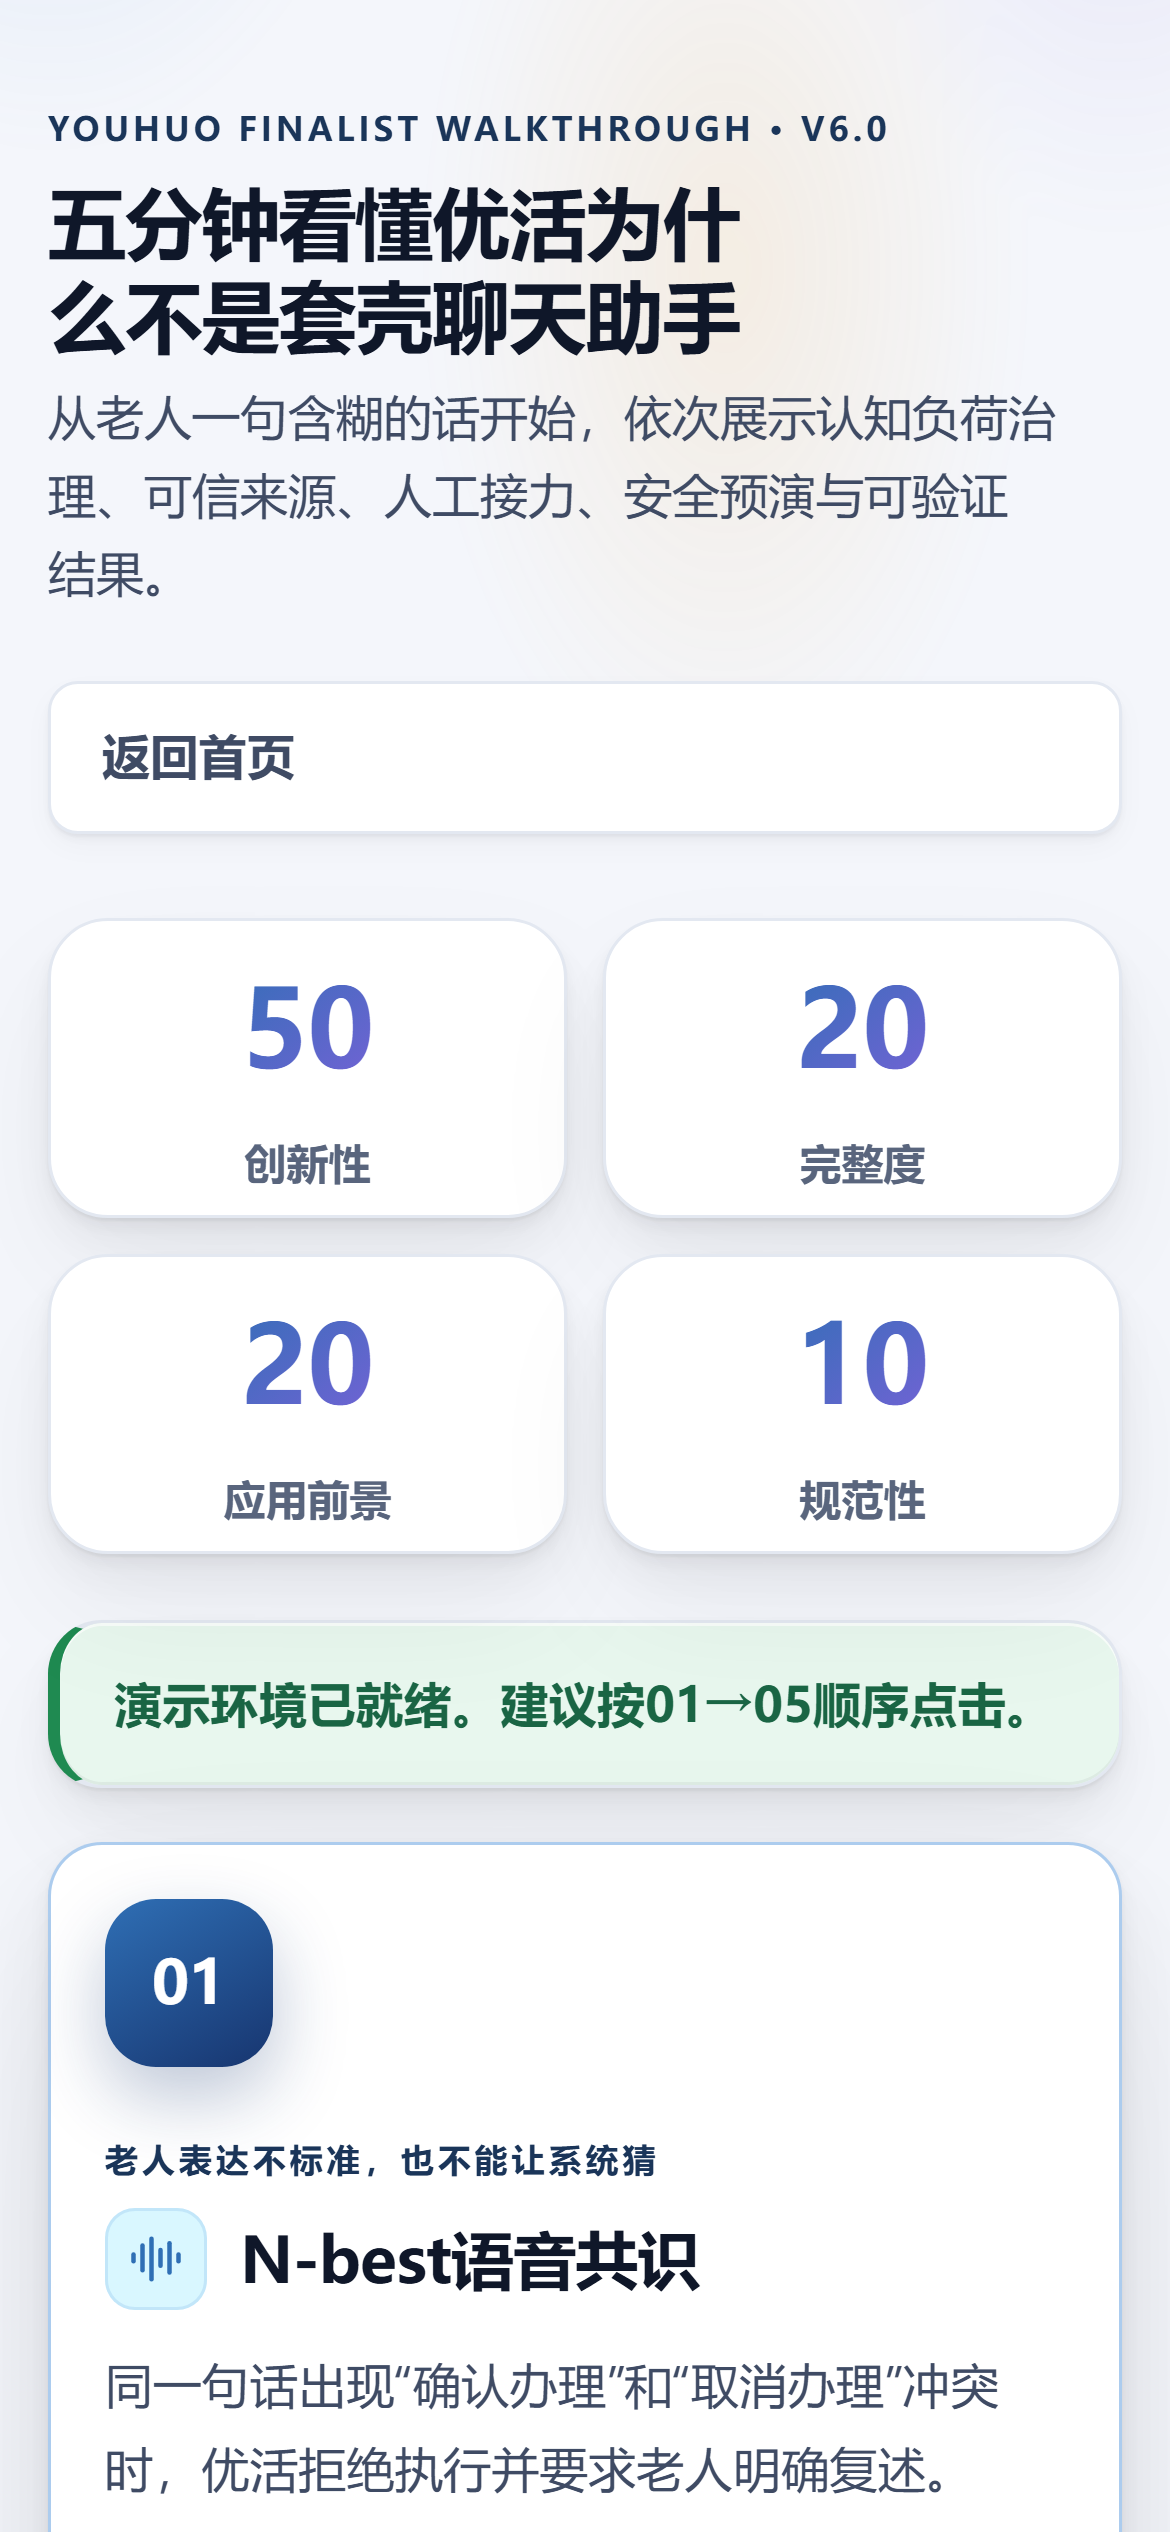
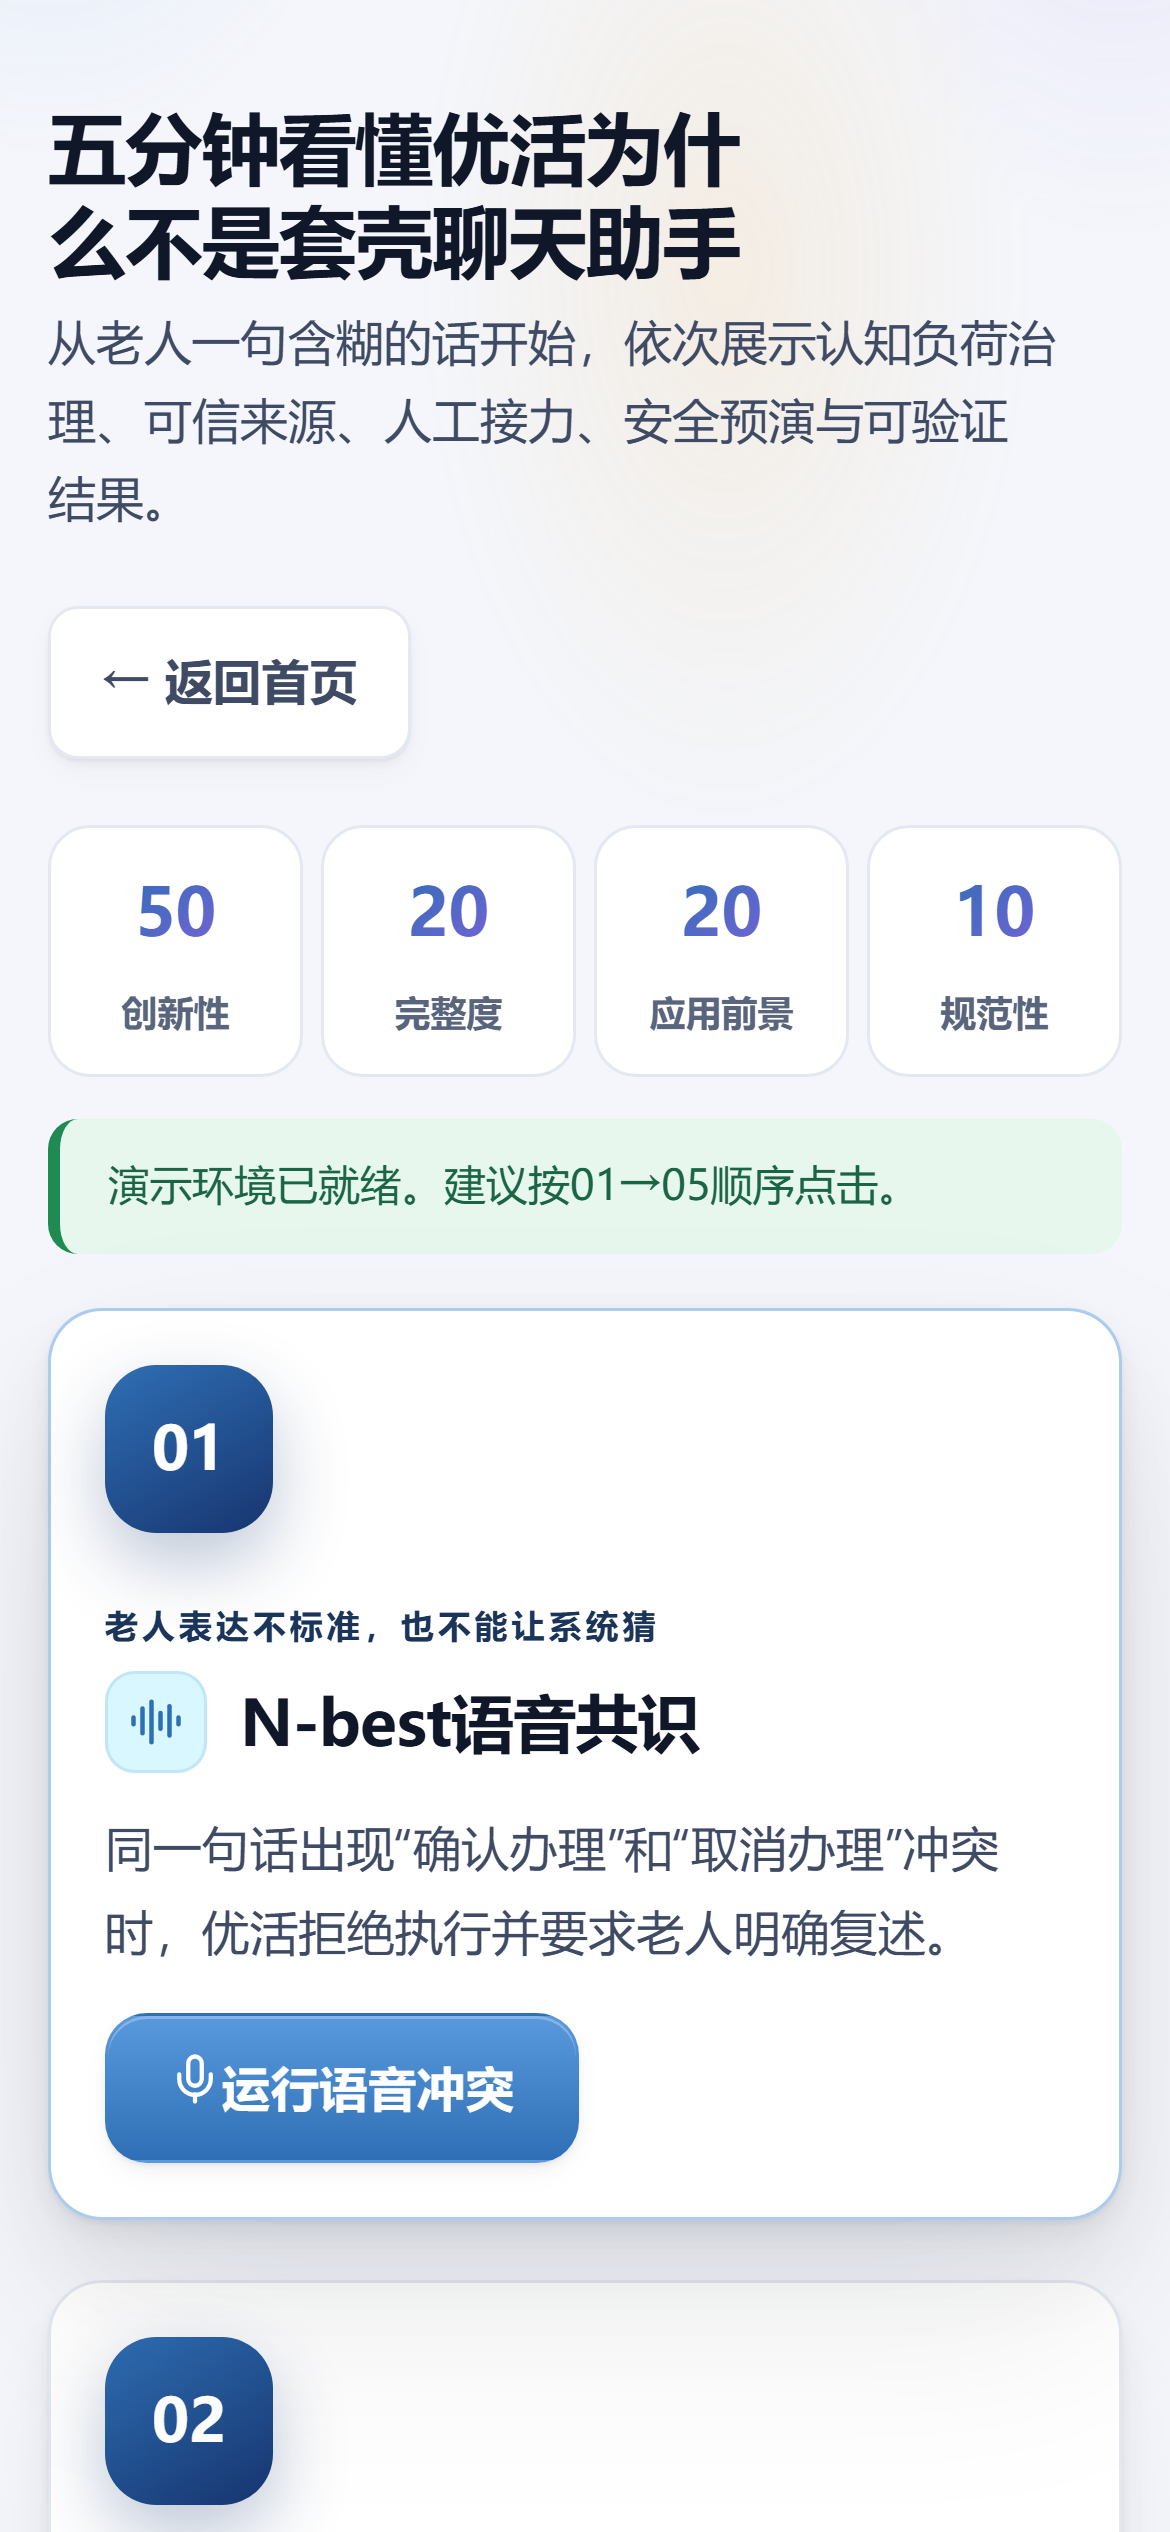
前端重构 R9：评委页——它本来就是时间线，问题在别处
/judge 的骨架不用动：它已经是一条编号 01→05 的时间线，每一步一个论点加一个真按钮，
这正是任务书要的 Demo Story。所以这一轮不重排结构，只修真实存在的问题。

## 从截图上量出来的两处

「返回首页」是一整条通栏白块，比标题还显眼——.topbar 是 flex-wrap: wrap，返回链接换到
第二行之后被拉满宽。加 flex: 0 0 auto + align-self + nowrap。

四个评分权重数字（50/20/20/10）占掉整整一屏——@media (max-width: 900px) 把它换成 2×2，
四张 100px 高的卡加圆角加阴影。评委打开这一页，第一屏原先是四个评分权重数字，产品一个
字都还没出现。改成保持四列压扁：min-height: 0、去阴影、数字 36px→22px。评分维度该写，
但它是一行注脚，不是开场。

## 两个代码缺陷（都在勘察清单上）

judge.js 五处 .onclick = 换成 addEventListener。这五个按钮写在 judge.html 里，.onclick
是覆盖而不是叠加，哪天有人再挂一件事，先挂的那件会无声消失。

顺带纠正我提交前写错的一句注释：elder.js 与 family.js 里剩下的四处 .onclick 是在刚
createElement 出来的按钮上赋值，那里没有既有处理器可覆盖，是安全的简写，不动。

data.authorization.decision 补可选链。响应缺字段时原先直接抛 TypeError；更糟的是下面
那行 statusEl.textContent = '通过：…' 照样会执行，把一次失败说成通过。现在决策取不到
就明说取不到，并抛错阻止那句结论。

失败要写在用户刚点的地方。五个处理器原先都是 .catch(e => statusEl.textContent = ...)，
状态行在页面顶部，而评委的眼睛在他刚按下的那个按钮上——一次失败的观感是"点了没反应"。

<title> 去掉 v6；YOUHUO FINALIST WALKTHROUGH · V6.0 与末尾的 ONE SENTENCE 删掉；
#judgeStatus 降为一行字；返回链接补上其余五页都有的「←」。

## 新增闸门，四条变异全红

test_no_page_labels_itself_with_all_caps_english（六页参数化）：.eyebrow 里不许是一串
大写英文加版本号。六个页面里有五个曾经这样开场，加上评委页末尾一个 ONE SENTENCE。这
一条不禁 .eyebrow 本身——它现在承载每一步的论点——只禁"纯大写 ASCII"这一种内容。

test_judge_steps_report_failures_where_the_user_clicked：五个步骤各自的输出区都要登记
为失败落点，且不许退回 .onclick。

## 没有做的一件事

任务书给评委页列了七个节拍，现有五步覆盖首尾，缺中间的确认金额 / 家属接力 / 权威状态。
没有补上：这三拍需要一条"建任务 → 家属批准 → 核权威状态"的三次调用序列，而它已经在
/family（需要您处理 → 核对后确认接力）和 /trust（中断那一段的 Saga 按角色推进）里各
跑通了一遍。在这里再拼一份，多出来的是一个我没有逐个核过契约的新演示按钮——一个半通
[…]

diff --git a/backend/static/judge.js b/backend/static/judge.js
@@ -71,7 +71,12 @@ async function runPreview() {
       ], user_confirmed:true, family_approvals:1, reversible:true
     })
   });
-  showJSON('#demoPreviewOut', {决策:data.authorization.decision, 剥离字段:data.authorization.stripped_fields, 说明:data.plain_summary, 不会做:data.will_not_do, 人工确认:data.required_humans});
+  // 可选链：这一页是给评委看的，响应少一个字段不该变成一屏 TypeError。
+  // `authorization` 缺失时下面的 statusEl 仍会写出结论，而结论此时是假的——所以
+  // 决策取不到就明说取不到。
+  const auth = data.authorization || {};
+  showJSON('#demoPreviewOut', {决策:auth.decision ?? '（响应里没有 authorization）', 剥离字段:auth.stripped_fields, 说明:data.plain_summary, 不会做:data.will_not_do, 人工确认:data.required_humans});
+  if (!auth.decision) throw new Error('预演响应缺少授权决策，不能当作通过');
   statusEl.textContent = '通过：文档金额与越权执行字段均未进入真实工具参数。';
 }
 
@@ -119,10 +124,28 @@ async function runBoard() {
   statusEl.textContent = '证据板已加载：明确区分已实现、待真机验证和禁止宣传的内容。';
 }
 
-document.querySelector('#demoVoice').onclick = () => runVoice().catch(e => statusEl.textContent=e.message);
-document.querySelector('#demoLoad').onclick = () => runLoad().catch(e => statusEl.textContent=e.message);
-document.querySelector('#demoPreview').onclick = () => runPreview().catch(e => statusEl.textContent=e.message);
-document.querySelector('#demoCard').onclick = () => runCard().catch(e => statusEl.textContent=e.message);
-document.querySelector('#demoBoard').onclick = () => runBoard().catch(e => statusEl.textContent=e.message);
+// `addEventListener` 而不是 `.onclick =`。
+//
+// 区别只在**已经存在于 HTML 里**的元素上要紧：`.onclick` 是覆盖而不是叠加，哪天有人
+// 再给同一个按钮挂一件事，先挂的那件会无声消失。这五个按钮正是写在 judge.html 里的。
+// （elder.js 和 family.js 里剩下的四处 `.onclick` 是在刚 createElement 出来的按钮上
+// 赋值，那里没有既有处理器可覆盖，是安全的简写，不动。）
+//
+// 失败时同时写进状态行**和**这一步自己的输出区。原先只写状态行——那一行在页面顶部，
+// 而评委的眼睛在他刚点的那个按钮上，于是"点了没反应"。
+const STEPS = [
+  ['#demoVoice', runVoice, '#demoVoiceOut'],
+  ['#demoLoad', runLoad, '#demoLoadOut'],
+  ['#demoPreview', runPreview, '#demoPreviewOut'],
+  ['#demoCard', runCard, '#glassCard'],
+  ['#demoBoard', runBoard, '#evidenceBoard'],
+];
+STEPS.forEach(([selector, run, outSelector]) => {
+  document.querySelector(selector).addEventListener('click', () => run().catch(e => {
+    statusEl.textContent = e.message;
+    const out = document.querySelector(outSelector);
+    if (out) { out.replaceChildren(); out.textContent = e.message; }
+  }));
+});
 
 login().then(()=>{statusEl.textContent='演示环境已就绪。建议按01→05顺序点击。';}).catch(e=>{statusEl.textContent=e.message;});

diff --git a/backend/static/judge.html b/backend/static/judge.html
@@ -16,7 +16,7 @@
   <meta name="apple-mobile-web-app-status-bar-style" content="default" />
   <meta name="apple-mobile-web-app-title" content="优活" />
   <meta name="mobile-web-app-capable" content="yes" />
-  <title>优活 v6 决赛导览</title>
+  <title>优活决赛导览</title>
   <link rel="stylesheet" href="/static/tokens.css" />
   <link rel="stylesheet" href="/static/base.css" />
   <link rel="stylesheet" href="/static/components.css" />
@@ -27,11 +27,10 @@
   <main class="shell judge-shell">
     <header class="topbar judge-header">
       <div>
-        <p class="eyebrow">YOUHUO FINALIST WALKTHROUGH · V6.0</p>
         <h1>五分钟看懂优活为什么不是套壳聊天助手</h1>
         <p class="lead">从老人一句含糊的话开始，依次展示认知负荷治理、可信来源、人工接力、安全预演与可验证结果。</p>
       </div>
-      <a class="back-link" href="/">返回首页</a>
+      <a class="back-link" href="/">← 返回首页</a>
     </header>
 
     <section class="score-ribbon" aria-label="评分维度">
@@ -41,7 +40,7 @@
       <div><strong>10</strong><span>规范性</span></div>
     </section>
 
-    <section class="panel notice good" id="judgeStatus" aria-live="polite">正在建立评委演示环境……</section>
+    <p class="notice good care-status" id="judgeStatus" aria-live="polite">正在建立评委演示环境……</p>
 
     <section class="timeline">
       <article class="panel demo-step active" data-step="1">
@@ -101,12 +100,11 @@
     </section>
 
     <section class="panel final-claim">
-      <p class="eyebrow">ONE SENTENCE</p>
       <h2>老人开口表达目标，优活降低理解负担、守住副作用边界，并让每一步都能由老人、家人和证据共同确认。</h2>
       <div class="cta-row">
         <a class="button-link" href="/elder">进入老人端真实办事</a>
-        <a class="button-link secondary" href="/trust">查看可信实验室</a>
-        <a class="button-link secondary" href="/docs">查看完整API</a>
+        <a class="button-link secondary" href="/trust">可信中心</a>
+        <a class="button-link secondary" href="/docs">接口文档</a>
       </div>
     </section>
   </main>

diff --git a/backend/static/pages.css b/backend/static/pages.css
@@ -289,6 +289,9 @@
 
 .judge-shell { max-width: 1140px; }
 .judge-header { align-items: flex-start; padding: 22px 0 6px; }
+/* `.topbar` 是 `flex-wrap: wrap`，返回链接因此换到第二行，然后被拉成一整条通栏白块，
+   比标题还显眼。实测在评委页上就是这样。 */
+.topbar > .back-link { flex: 0 0 auto; align-self: flex-start; white-space: nowrap; }
 .judge-header h1 { max-width: 900px; font-size: clamp(30px, 5vw, 56px); }
 
 .score-ribbon { display: grid; grid-template-columns: repeat(4, 1fr); gap: 12px; margin: 22px 0; }
@@ -400,7 +403,20 @@
   .rail { position: static; grid-template-columns: repeat(auto-fit, minmax(280px, 1fr)); }
 }
 @media (max-width: 900px) {
-  .score-ribbon { grid-template-columns: repeat(2, 1fr); }
+  /* 保持四列，但压扁。
+   *
+   * 原先在这里换成 2×2：四张 100px 高的卡加圆角加阴影，在 390px 下占掉整整一屏——
+   * 评委打开这一页，第一屏是四个评分权重数字，产品一个字都还没出现。这一页确实是
+   * 给评委的，评分维度也确实该写，但它是一行注脚，不是开场。 */
+  .score-ribbon { grid-template-columns: repeat(4, 1fr); gap: 6px; margin: 14px 0; }
+  .score-ribbon div {
+    min-height: 0;
+    padding: 10px 4px;
+    border-radius: var(--r-md);
+    box-shadow: none;
+  }
+  .score-ribbon strong { font-size: 22px; }
+  .score-ribbon span { font-size: 12px; }
 }
 /* 单列收拢。
  *

diff --git a/backend/static/sw.js b/backend/static/sw.js
@@ -14,7 +14,7 @@
 //: 上一版把 /v7/* 当成外壳缓存了下来，那些条目此刻还躺在已安装设备的 v1 缓存里。
 //: activate 只删除 key 不等于 VERSION 的缓存——不改这个字符串，被污染的条目就会
 //: 一直留着，改了 isApi() 也救不回已经装好的那批。
-const VERSION = 'youhuo-shell-v7';
+const VERSION = 'youhuo-shell-v8';
 
 //: 外壳 = 六个页面各自的 HTML、CSS、JS 和图标。
 //:

diff --git a/backend/tests/test_pwa_shell.py b/backend/tests/test_pwa_shell.py
@@ -322,6 +322,53 @@ def test_every_section_button_has_a_panel_to_show(page, least):
     assert len(open_panels) == 1, f"{page} 默认展开的分区不是一个：{len(open_panels)}"
 
 
+@pytest.mark.parametrize(
+    "page", ["index.html", "elder.html", "family.html", "care.html", "trust.html", "judge.html"]
+)
+def test_no_page_labels_itself_with_all_caps_english(page):
+    """`.eyebrow` 里不许是一串大写英文加版本号。
+
+    六个页面里有五个曾经这样开场：`C4-AI · HARMONYOS AGENT INNOVATION · V6.0`、
+    `YOUHUO FAMILY CONSOLE · V6.0`、`YOUHUO CARE HUB · V4.0`、
+    `YOUHUO TRUST LAB · V5.0`、`YOUHUO FINALIST WALKTHROUGH · V6.0`，加上评委页末尾
+    一个 `ONE SENTENCE`。这些是产品自我介绍的位置，而它被赛事元数据占了——一个中文
+    用户看到的第一行字，读不出任何意思。
+
+    `.eyebrow` 本身是有用的：它现在承载每一步的论点（「老人表达不标准，也不能让系统
+    猜」）。所以这一条不禁 `.eyebrow`，只禁"纯大写 ASCII"这一种内容。
+    """
+    source = (STATIC / page).read_text(encoding="utf-8")
+    source = re.sub(r"<!--.*?-->", "", source, flags=re.S)
+    offenders = [
+        text.strip() for text in re.findall(r'class="eyebrow"[^>]*>(.*?)<', source, re.S)
+        if text.strip() and re.fullmatch(r"[A-Z0-9 ·.·\-–—/&+]+", text.strip())
+    ]
+    assert not offenders, f"{page} 用一串大写英文介绍自己：{offenders}"
+
+
+def test_judge_steps_report_failures_where_the_user_clicked():
+    """每一步失败时，错误要写进那一步自己的输出区，不只是页面顶部的状态行。
+
+    原先五个处理器都是 `.catch(e => statusEl.textContent = e.message)`。状态行在页面
+    顶部，而评委的眼睛在他刚点的那个按钮上——于是一次失败的观感是"点了没反应"。
+
+    顺带把 `.onclick =` 换成 `addEventListener`：这五个按钮写在 judge.html 里，
+    `.onclick` 是覆盖而不是叠加，哪天有人再挂一件事，先挂的那件会无声消失。
+    （elder.js / family.js 里剩下的 `.onclick` 是在刚 createElement 的按钮上赋值，
+    那里没有既有处理器可覆盖，不算同一件事。）
+    """
+    js = (STATIC / "judge.js").read_text(encoding="utf-8")
+    body = re.sub(r"//.*", "", js)
+    assert ".onclick" not in body, "judge.js 又用回了 .onclick ="
+    assert body.count("addEventListener('click'") >= 1, "五个步骤没有一个挂上 click"
+    # 五个步骤各自的输出区都要出现在错误分支所在的那张表里。
+    for out in ["#demoVoiceOut", "#demoLoadOut", "#demoPreviewOut", "#glassCard", "#evidenceBoard"]:
+        assert out in body, f"{out} 没有被登记为失败时的落点"
+    handler = re.search(r"STEPS\.forEach\(.*?\}\);", body, re.S)
+    assert handler, "找不到统一的步骤绑定"
+    assert "out.textContent" in handler.group(0), "失败时没有写进这一步自己的输出区"
+
+
 def test_every_trust_promise_points_at_something_that_proves_it():
     """四条底线的「→」必须落在这一页真实存在的分区上。
 
